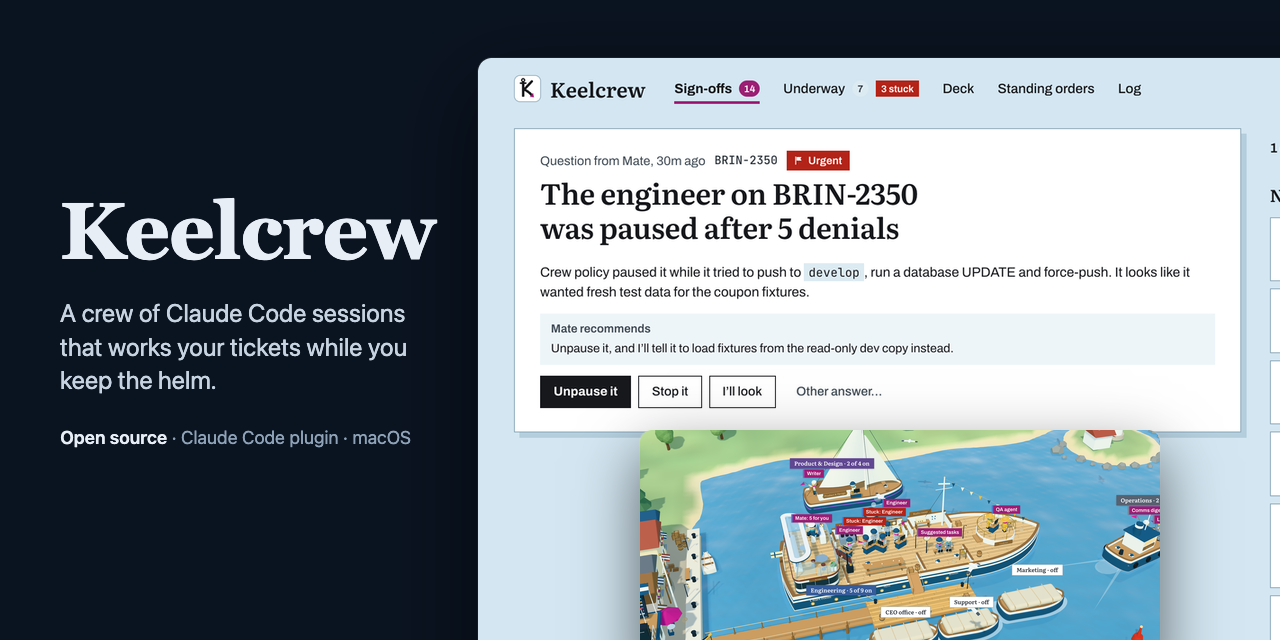
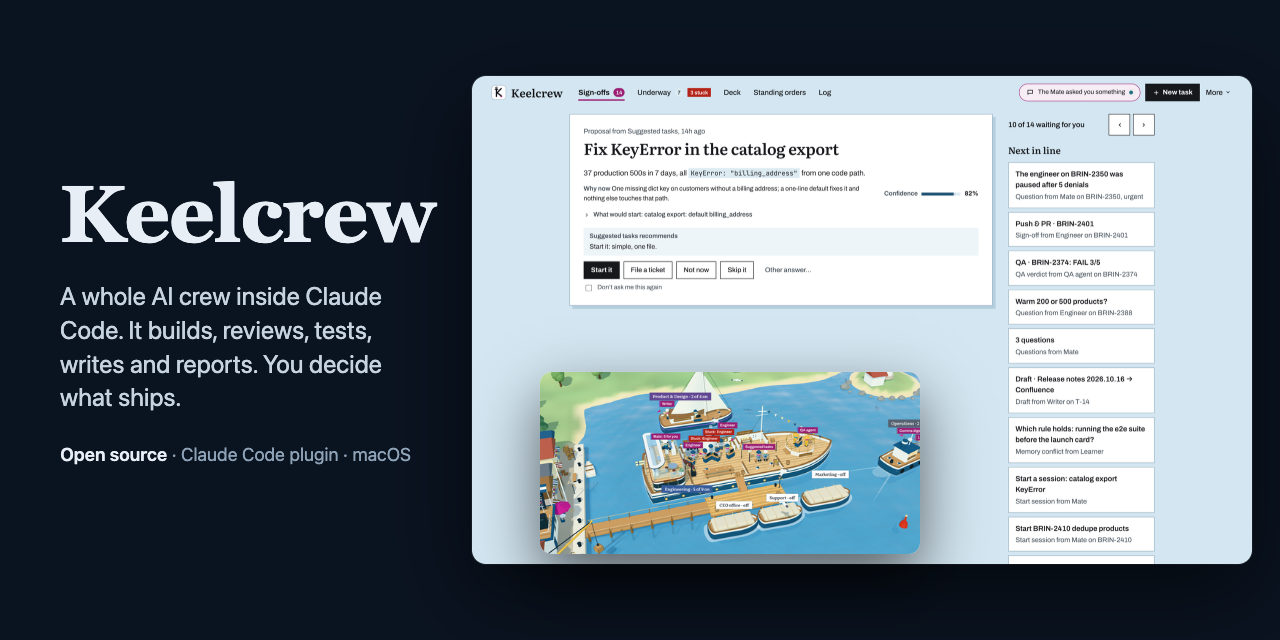
sell the whole crew

diff --git a/README.md b/README.md
@@ -1,6 +1,6 @@
 # Keelcrew
 
-**A crew of Claude Code sessions that works your tickets while you keep the helm.**
+**A whole AI crew inside Claude Code. It builds, reviews, tests, writes and reports, and you decide what ships.**
 
 <p align="center"><a href="#get-started"><img src="https://img.shields.io/badge/Install-one%20command-1f6feb?style=for-the-badge" alt="Install: one command"></a></p>
 <p align="center">
@@ -11,10 +11,10 @@
 </p>
 
 <p align="center">
-  <img src="docs/media/harbour-light.gif" alt="A recreation of the Mate's session in the Claude app, animated: its chat with a launch card, a crew card and a refused push, over a night harbour with today's watches, the crew moored at a jetty and a lighthouse sweeping its beam">
+  <img src="docs/media/board.webp" alt="The Keelcrew board: the crew proposes a fix for a KeyError behind 37 production errors and you click Start it, a writer's release-notes draft is approved to post, then the Deck shows the crew at work aboard a 3D ship at night">
 </p>
 
-Keelcrew is a Claude Code plugin for developers on a Mac who work from Jira or a task list. One Claude Code session, the **Mate**, runs the others: it gives each ticket an engineer session in its own git worktree, with a reviewer and QA behind it, and shows the work on your own private **Keelcrew board**.
+Keelcrew is a Claude Code plugin for the Mac. One Claude Code session, the **Mate**, runs a crew of others: an engineer for each ticket or task, in its own git worktree with a reviewer and QA behind it, agents for docs, release notes and data questions, and more you can switch on for support triage, product memos, inbox digests and morning briefs. Everything shows up on your own private **Keelcrew board**.
 
 By default engineers push their branch and open their own PR; switch shipping to card mode and a ready PR waits for your signature. Agents that draft mail, chat replies, docs or release notes post only after you approve.
 
@@ -57,7 +57,9 @@ By default engineers push their branch and open their own PR; switch shipping to
 
 ### 1. Ask the Mate
 
-Tell the Mate what you need in its session, as at the top of this page. It answers with cards you can act on in the chat. Its look, Harbour light, puts the crew around the conversation: the lighthouse flies a pennant while something waits for you, and each engineer is a boat at the jetty.
+Tell the Mate what you need in its session. It answers with cards you can act on in the chat. Its look, Harbour light, puts the crew around the conversation: the lighthouse flies a pennant while something waits for you, and each engineer is a boat at the jetty.
+
+<img src="docs/media/harbour-light.gif" alt="A recreation of the Mate's session in the Claude app, animated: its chat with a launch card, a crew card and a refused push, over a night harbour with today's watches, the crew moored at a jetty and a lighthouse sweeping its beam">
 
 ### 2. Watch the crew work
 
